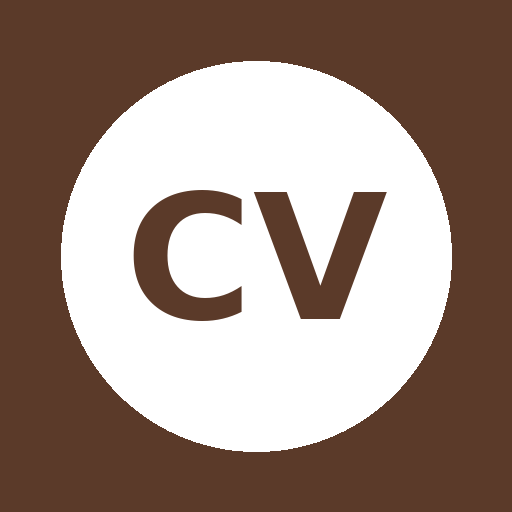
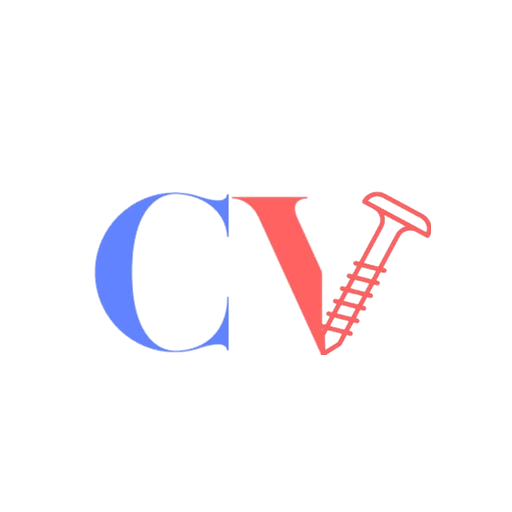
Add files via upload

diff --git a/index.html b/index.html
@@ -3,7 +3,7 @@
 <head>
 <meta charset="UTF-8">
 <meta name="viewport" content="width=device-width, initial-scale=1, viewport-fit=cover">
-<meta name="theme-color" content="#5b3a29">
+<meta name="theme-color" content="#3E5CDE">
 <title>AuditoriaModulos · Clóset Vera</title>
 <link rel="manifest" href="manifest.json">
 <link rel="icon" href="icon-192.png">
@@ -11,67 +11,77 @@
 <style>
 
 :root{
-  --bg:#f6f5f3;--card:#fff;--ink:#201c17;--sub:#6b6259;--line:#e6e1d8;
-  --brand:#5b3a29;--brand-ink:#fff;--ok:#2e7d4f;--bad:#b3452c;
+  --bg:#f4f6fb;--card:#fff;--ink:#1b2030;--sub:#6b7280;--line:#e6e9f2;
+  --brand:#3E5CDE;--brand-2:#2c46b8;--brand-ink:#fff;
+  --accent:#FF6B6A;--yellow:#FFD34D;
+  --ok:#1f9d55;--bad:#e0453f;
+  --shadow:0 1px 2px rgba(20,25,50,.04), 0 4px 14px rgba(20,25,50,.06);
+  --shadow-btn:0 2px 8px rgba(62,92,222,.28);
   box-sizing:border-box;padding-top:env(safe-area-inset-top,0px);padding-bottom:env(safe-area-inset-bottom,0px);
 }
-@media (prefers-color-scheme: dark){:root:not([data-theme="light"]){--bg:#17140f;--card:#211c15;--ink:#f2ece2;--sub:#a89c8a;--line:#33291f;}}
-:root[data-theme="dark"]{--bg:#17140f;--card:#211c15;--ink:#f2ece2;--sub:#a89c8a;--line:#33291f;}
+@media (prefers-color-scheme: dark){:root:not([data-theme="light"]){--bg:#11131b;--card:#1a1d29;--ink:#eef0f7;--sub:#9aa1b8;--line:#2a2e40;--shadow:0 1px 2px rgba(0,0,0,.3), 0 4px 14px rgba(0,0,0,.35);}}
+:root[data-theme="dark"]{--bg:#11131b;--card:#1a1d29;--ink:#eef0f7;--sub:#9aa1b8;--line:#2a2e40;--shadow:0 1px 2px rgba(0,0,0,.3), 0 4px 14px rgba(0,0,0,.35);}
 *{box-sizing:border-box}html,body{height:100%}
-body{margin:0;background:var(--bg);color:var(--ink);font-family:-apple-system,Segoe UI,Roboto,sans-serif}
-header{position:sticky;top:0;padding:12px 14px calc(8px + env(safe-area-inset-top,0px));background:var(--brand);color:var(--brand-ink);z-index:6}
+body{margin:0;background:var(--bg);color:var(--ink);font-family:-apple-system,Segoe UI,Roboto,Helvetica,Arial,sans-serif;-webkit-font-smoothing:antialiased}
+header{position:sticky;top:0;padding:12px 14px calc(10px + env(safe-area-inset-top,0px));background:linear-gradient(135deg,var(--brand),var(--brand-2));color:var(--brand-ink);z-index:6;box-shadow:0 2px 10px rgba(20,30,80,.18)}
 header h1{margin:0;font-size:16px}
-select#moduloSel{width:100%;margin-top:6px;padding:8px;border-radius:8px;border:none;font-weight:700;background:rgba(255,255,255,.15);color:var(--brand-ink)}
+select#moduloSel{width:100%;margin-top:6px;padding:8px;border-radius:10px;border:none;font-weight:700;background:rgba(255,255,255,.16);color:var(--brand-ink)}
 select#moduloSel option{color:#000}
-nav{display:flex;gap:4px;overflow-x:auto;padding:8px;background:var(--card);border-bottom:1px solid var(--line);position:sticky;top:122px;z-index:5}
-nav button{flex:0 0 auto;padding:8px 10px;border:none;border-radius:8px;background:transparent;color:var(--sub);font-size:12.5px;font-weight:600;cursor:pointer;white-space:nowrap}
-nav button.active{background:var(--brand);color:var(--brand-ink)}
+nav{display:flex;gap:6px;overflow-x:auto;padding:9px 10px;background:var(--card);border-bottom:1px solid var(--line);position:sticky;top:122px;z-index:5;box-shadow:0 2px 6px rgba(20,25,50,.04)}
+nav::-webkit-scrollbar{display:none}
+nav button{flex:0 0 auto;padding:8px 13px;border:none;border-radius:999px;background:transparent;color:var(--sub);font-size:12.5px;font-weight:700;cursor:pointer;white-space:nowrap;transition:background .15s ease,color .15s ease,transform .1s ease}
+nav button.active{background:var(--brand);color:var(--brand-ink);box-shadow:0 2px 8px rgba(62,92,222,.35)}
+nav button:active{transform:scale(.96)}
 nav button.soon{opacity:.45}
 main{max-width:760px;margin:0 auto;padding:14px}
-.card{background:var(--card);border:1px solid var(--line);border-radius:12px;padding:12px;margin-bottom:10px}
-input,select{width:100%;padding:8px;border:1px solid var(--line);border-radius:8px;background:var(--bg);color:var(--ink);font-size:14px}
+.card{background:var(--card);border:1px solid var(--line);border-radius:16px;padding:14px;margin-bottom:10px;box-shadow:var(--shadow)}
+input,select{width:100%;padding:9px 10px;border:1px solid var(--line);border-radius:10px;background:var(--bg);color:var(--ink);font-size:14px;transition:border-color .15s ease,box-shadow .15s ease}
+input:focus,select:focus{outline:none;border-color:var(--brand);box-shadow:0 0 0 3px rgba(62,92,222,.15)}
 table{width:100%;border-collapse:collapse;font-size:13px}
-th,td{text-align:left;padding:6px 5px;border-bottom:1px solid var(--line)}
-th{color:var(--sub);font-size:11px}
-.tag{display:inline-block;background:var(--bg);border:1px solid var(--line);border-radius:6px;padding:1px 6px;font-size:10.5px;color:var(--sub);margin-left:5px}
-button.btn{padding:9px 14px;border:none;border-radius:8px;background:var(--brand);color:var(--brand-ink);font-weight:600;cursor:pointer;font-size:14px}
-button.btn:disabled{opacity:.5;cursor:not-allowed}
-button.small{padding:6px 9px;font-size:12px}
+th,td{text-align:left;padding:7px 6px;border-bottom:1px solid var(--line)}
+th{color:var(--sub);font-size:10.5px;text-transform:uppercase;letter-spacing:.4px;font-weight:700}
+tr:last-child td{border-bottom:none}
+.tag{display:inline-block;background:var(--bg);border:1px solid var(--line);border-radius:7px;padding:2px 7px;font-size:10.5px;color:var(--sub);margin-left:5px;font-weight:600}
+button.btn{padding:10px 16px;border:none;border-radius:11px;background:linear-gradient(135deg,var(--brand),var(--brand-2));color:var(--brand-ink);font-weight:700;cursor:pointer;font-size:14px;box-shadow:var(--shadow-btn);transition:transform .1s ease,filter .15s ease}
+button.btn:active{transform:scale(.97);filter:brightness(.96)}
+button.btn:disabled{opacity:.5;cursor:not-allowed;box-shadow:none}
+button.small{padding:7px 11px;font-size:12px;border-radius:9px}
 .row{display:flex;gap:8px;align-items:center;flex-wrap:wrap}
-.hint{color:var(--sub);font-size:12px;margin-top:4px}
+.hint{color:var(--sub);font-size:12px;margin-top:4px;line-height:1.4}
 .pos{color:var(--ok);font-weight:700}.neg{color:var(--bad);font-weight:700}
 .grid2{display:grid;grid-template-columns:1fr 1fr;gap:8px}
 .wrap-x{overflow-x:auto}
-h3{margin:0 0 6px;font-size:14px}
-.warn{background:#fdf1e3;border:1px solid #e6c88a;color:#7a4f13;border-radius:8px;padding:8px;font-size:12.5px;margin-top:8px}
-:root[data-theme="dark"] .warn, @media (prefers-color-scheme: dark){.warn{background:#3a2c14;border-color:#6b4f1f;color:#e8c98a}}
-.subtabs{display:flex;gap:6px;margin-bottom:8px}
-.subtabs button{flex:1;padding:7px;border-radius:8px;border:1px solid var(--line);background:transparent;color:var(--ink);font-weight:600;font-size:12.5px;cursor:pointer}
-.subtabs button.active{background:var(--brand);color:var(--brand-ink);border-color:var(--brand)}
+h3{margin:0 0 8px;font-size:14px;font-weight:800;letter-spacing:.1px}
+.warn{background:#fdf1e3;border:1px solid #e6c88a;border-left:4px solid #d99a2b;color:#7a4f13;border-radius:10px;padding:9px 10px;font-size:12.5px;margin-top:8px}
+:root[data-theme="dark"] .warn, @media (prefers-color-scheme: dark){.warn{background:#332711;border-color:#6b4f1f;color:#e8c98a}}
+.subtabs{display:flex;gap:6px;margin-bottom:8px;background:var(--bg);padding:4px;border-radius:12px}
+.subtabs button{flex:1;padding:8px;border-radius:9px;border:none;background:transparent;color:var(--ink);font-weight:700;font-size:12.5px;cursor:pointer;transition:background .15s ease,color .15s ease}
+.subtabs button.active{background:var(--brand);color:var(--brand-ink);box-shadow:0 2px 6px rgba(62,92,222,.3)}
 .brand{display:flex;align-items:center;gap:10px}
-.logo{width:38px;height:38px;border-radius:50%;background:#fff;color:var(--brand);display:flex;align-items:center;justify-content:center;font-weight:800;font-size:14px;flex:0 0 auto}
-.brandname{font-weight:800;font-size:15px;letter-spacing:.5px;line-height:1.1}
+.logo{width:40px;height:40px;border-radius:12px;background:#fff;flex:0 0 auto;box-shadow:0 2px 6px rgba(0,0,0,.15);display:block}
+.brandname{font-weight:800;font-size:15px;letter-spacing:.6px;line-height:1.1}
 .brandsub{font-size:11px;opacity:.85}
 .modbar{margin-top:8px}
-.modpill{border:none;color:#fff;padding:8px 12px;border-radius:20px;font-weight:700;font-size:13px;cursor:pointer}
-.pickerTitle{font-size:19px;font-weight:800;margin:4px 2px 12px}
+.modpill{border:none;color:#fff;padding:8px 12px;border-radius:20px;font-weight:700;font-size:13px;cursor:pointer;box-shadow:0 2px 8px rgba(0,0,0,.15)}
+.pickerTitle{font-size:20px;font-weight:800;margin:6px 2px 14px;letter-spacing:.1px}
 .pickergrid{display:grid;grid-template-columns:1fr 1fr;gap:12px}
-.modcard{border-radius:14px;padding:16px;color:#fff;cursor:pointer;min-height:120px;display:flex;flex-direction:column;justify-content:flex-end;border:none;text-align:left;font-family:inherit}
-.modbadge{width:44px;height:44px;border-radius:10px;background:rgba(255,255,255,.28);display:flex;flex-direction:column;align-items:center;justify-content:center;font-weight:800;font-size:16px;margin-bottom:28px}
+.modcard{border-radius:18px;padding:16px;color:#fff;cursor:pointer;min-height:124px;display:flex;flex-direction:column;justify-content:flex-end;border:none;text-align:left;font-family:inherit;box-shadow:0 4px 16px rgba(20,25,50,.16);transition:transform .1s ease}
+.modcard:active{transform:scale(.97)}
+.modbadge{width:44px;height:44px;border-radius:11px;background:rgba(255,255,255,.28);display:flex;flex-direction:column;align-items:center;justify-content:center;font-weight:800;font-size:16px;margin-bottom:28px}
 .modbadge span{font-size:8.5px;font-weight:700;letter-spacing:.3px}
 .modname{font-weight:800;font-size:17px}
 .modregion{font-size:12px;opacity:.85}
 
 header .topbar{display:flex;justify-content:space-between;align-items:center;gap:8px}
-#whoami{font-size:11px;opacity:.85}
-#logoutBtn{background:rgba(255,255,255,.15);border:none;color:#fff;border-radius:8px;padding:5px 9px;font-size:11px;cursor:pointer}
-#syncBadge{display:inline-block;margin-top:6px;padding:3px 8px;border-radius:20px;font-size:11px;font-weight:600}
+#whoami{font-size:11px;opacity:.9;font-weight:600}
+#logoutBtn{background:rgba(255,255,255,.16);border:none;color:#fff;border-radius:9px;padding:6px 10px;font-size:11px;font-weight:700;cursor:pointer}
+#syncBadge{display:inline-block;margin-top:6px;padding:4px 10px;border-radius:20px;font-size:11px;font-weight:700}
 </style>
 </head>
 <body>
 <header>
   <div class="topbar">
-    <div class="brand"><div class="logo">CV</div><div><div class="brandname">CLOSETS VERA</div><div class="brandsub">Auditoría de Módulos</div></div></div>
+    <div class="brand"><img class="logo" src="logo-badge.png" alt="Closets Vera"><div><div class="brandname">CLOSETS VERA</div><div class="brandsub">Auditoría de Módulos</div></div></div>
     <div style="text-align:right">
       <div id="whoami"></div>
       <button id="logoutBtn">Salir</button>

diff --git a/sw.js b/sw.js
@@ -1,6 +1,6 @@
 // Service worker: cachea el "app shell" para que la app abra y funcione sin internet.
 // Los datos van por src/db.js (IndexedDB + sync a Supabase), no por aquí.
-const CACHE = 'auditoriamodulos-v17';
+const CACHE = 'auditoriamodulos-v18';
 const APP_SHELL = [
   './',
   './index.html',
@@ -12,6 +12,8 @@ const APP_SHELL = [
   './auth.js',
   './icon-192.png',
   './icon-512.png',
+  './logo-badge.png',
+  './logo-full.png',
   'https://cdn.jsdelivr.net/npm/dexie@3.2.6/dist/dexie.min.js',
   'https://cdn.jsdelivr.net/npm/@supabase/supabase-js@2/dist/umd/supabase.js',
   'https://cdn.jsdelivr.net/npm/jspdf@2.5.1/dist/jspdf.umd.min.js'
